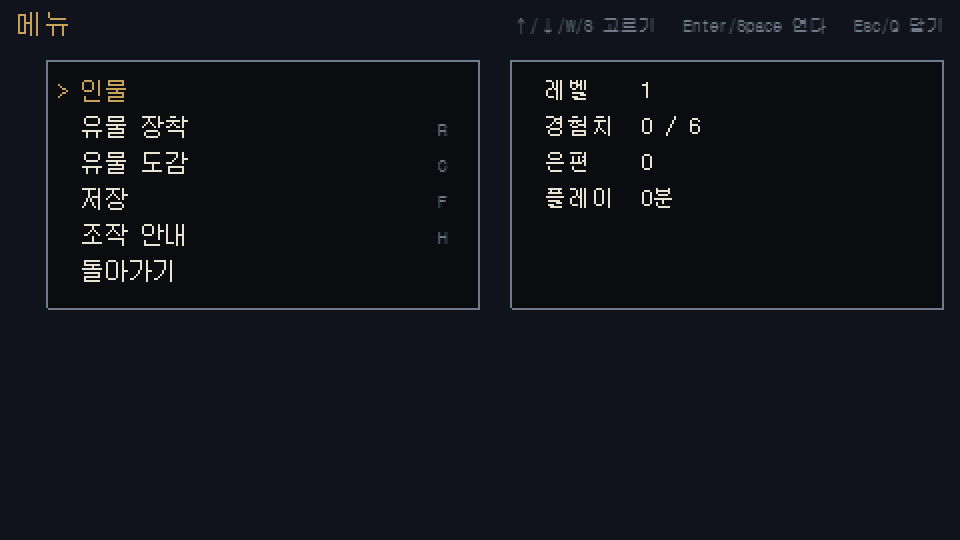
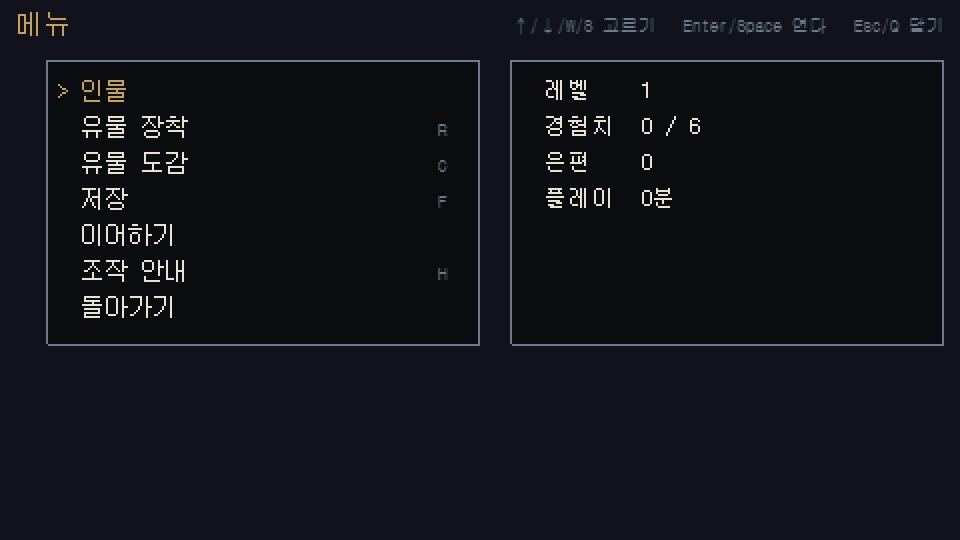
fix(ui): 새 게임이 죽은 자리에서 시작하던 것 + 메뉴에 이어하기 (#64)
원인이 같았다 - 기본값이 있는 인자를 생략하니 호출부가 조용히 틀렸다.

scene.start('overworld') 로 인자를 생략했더니 Phaser 가 그 씬에 마지막으로
넘긴 데이터를 그대로 남겨뒀다. 전멸 후 새로 시작하면 파티는 새것인데 위치만
지난 회차의 것이었다. 안 넘김과 빈 값을 넘김은 다르다.

같은 실수가 메뉴에도 있었다. mode 를 안 넘겨 저장이 기본값 load 로 열렸다 -
저장하러 들어가서 불러오기 화면을 만나는데 두 화면이 비슷해 눈에도 안 띈다.

메뉴에 이어하기를 더한다. 단축키는 주지 않는다 - 탐색 중 실수로 누르면
지금까지의 진행이 날아간다. 세이브 화면의 닫기도 모드가 아니라 돌아갈 곳으로
판단하게 했다.

첫 테스트가 가짜였다. page.goto 로 두 번 열면 Phaser 인스턴스가 새로 생겨
씬 데이터가 남지 않아 고치기 전 코드로도 통과했다. 제대로 된 재현도 결국
못 만들어서(전멸 경로와 ?at= 플래그가 충돌한다) 한계를 주석에 적었다.

diff --git a/tests/smoke/boot.spec.ts b/tests/smoke/boot.spec.ts
@@ -912,6 +912,129 @@ test('성소의 보스와 싸워 유물을 얻는다', async ({ page }) => {
 });
 
 /**
+ * 새로 시작하면 처음부터다 (T-064).
+ *
+ * **씬 데이터가 남아 있었다.** 타이틀에서 새 게임을 시작할 때 위치를 안 넘겼더니
+ * Phaser 가 그 씬에 마지막으로 넘긴 값을 그대로 썼고, 그래서 전멸 → 타이틀 →
+ * 새로 시작 을 하면 **죽은 자리에서 다시 시작했다.** 파티는 새것인데 위치만 지난 회차였다.
+ */
+test('전멸한 뒤 새로 시작하면 시작 지점이다', async ({ page }) => {
+  const errors: string[] = [];
+  page.on('console', (msg) => {
+    if (msg.type() === 'error') errors.push(`[console] ${msg.text()}`);
+  });
+  page.on('pageerror', (error) => {
+    errors.push(`[pageerror] ${error.message}`);
+  });
+
+  /**
+   * ⚠ **이 테스트는 씬 데이터 잔존 자체를 재현하지 못한다.**
+   *
+   * 버그는 **한 세션 안에서** overworld 를 거쳐 타이틀로 돌아왔을 때 난다. 그 경로는
+   * 전멸뿐인데, 전멸을 확실히 만들려면 강한 적 앞에 세워야 하고 거기 세우려면 `?at=` 이
+   * 필요하다 — 그런데 `?at=` 은 새 게임에도 걸리므로 "시작 지점에서 시작했는가" 를
+   * 물을 수 없게 된다. 둘을 동시에 만족하는 배치를 찾지 못했다.
+   *
+   * 그래서 여기서는 **전멸이 타이틀로 이어지는가**까지만 본다. 새 게임의 시작 자리는
+   * 아래 `?at=` 없는 경로가 지킨다 — 씬 데이터가 남은 상태는 아니지만,
+   * 적어도 "새 게임이 시작 맵에서 시작한다" 는 성질은 붙들어 둔다.
+   */
+  await page.goto('/?encounters=off&at=ruin-sanctum:33,8');
+  await expect(page.locator('body')).toHaveAttribute('data-scene', 'title', { timeout: 20_000 });
+  await page.locator('#game canvas').click();
+  await page.keyboard.press('Enter');
+  await expect(page.locator('body')).toHaveAttribute('data-map', 'ruin-sanctum', { timeout: 10_000 });
+
+  await stepKey(page, 'ArrowRight');
+  await stepKey(page, 'Space');
+  await expect(page.locator('body')).toHaveAttribute('data-scene', 'battle', { timeout: 10_000 });
+
+  // 성소의 보스는 파티 Lv1 에게 이길 방법이 없다 (실측 Lv8 에 3%).
+  // 전투가 끝날 때까지만 누른다 — 끝난 뒤에도 누르면 타이틀을 지나쳐 새 게임이 시작된다.
+  for (let i = 0; i < 300; i += 1) {
+    if ((await page.locator('body').getAttribute('data-battle-phase')) === 'over') break;
+    await page.keyboard.press('Enter', { delay: 30 });
+  }
+  await expect(page.locator('body'), '보스에게 이겨버렸다').toHaveAttribute(
+    'data-battle-outcome',
+    'defeat',
+  );
+
+  await page.keyboard.press('Enter');
+  await expect(page.locator('body'), '전멸했는데 타이틀로 나가지 않았다').toHaveAttribute(
+    'data-scene',
+    'title',
+    { timeout: 10_000 },
+  );
+
+  // ── 새 게임은 시작 지점에서 (`?at=` 없이) ──────────────────────────────
+  await page.goto('/?encounters=off');
+  await expect(page.locator('body')).toHaveAttribute('data-scene', 'title', { timeout: 20_000 });
+  await page.locator('#game canvas').click();
+  await page.keyboard.press('Enter');
+  await expect(page.locator('body')).toHaveAttribute('data-scene', 'overworld', { timeout: 10_000 });
+  await expect(page.locator('body')).toHaveAttribute('data-map', 'ruin-entrance');
+  await expect(page.locator('body')).toHaveAttribute('data-player', '8,6');
+
+  expect(errors, `콘솔/페이지 에러가 발생했습니다:\n${errors.join('\n')}`).toEqual([]);
+});
+
+/**
+ * 메뉴의 저장과 이어하기가 서로 다른 화면을 연다 (T-064).
+ *
+ * **모드를 안 넘겨 "저장" 이 불러오기 화면을 열고 있었다.** 두 화면이 비슷하게 생겨서
+ * 눈으로도 안 띄었다 — 슬롯 목록에 커서가 있는 것은 똑같다.
+ */
+test('메뉴의 저장과 이어하기가 각각 제 모드로 열린다', async ({ page }) => {
+  const errors: string[] = [];
+  page.on('console', (msg) => {
+    if (msg.type() === 'error') errors.push(`[console] ${msg.text()}`);
+  });
+  page.on('pageerror', (error) => {
+    errors.push(`[pageerror] ${error.message}`);
+  });
+
+  await page.goto('/?encounters=off');
+  await expect(page.locator('body')).toHaveAttribute('data-scene', 'title', { timeout: 20_000 });
+  await page.locator('#game canvas').click();
+  await page.keyboard.press('Enter');
+  await expect(page.locator('body')).toHaveAttribute('data-scene', 'overworld', { timeout: 10_000 });
+
+  const openMenu = async (item: string): Promise<void> => {
+    await stepKey(page, 'Escape');
+    await expect(page.locator('body')).toHaveAttribute('data-scene', 'menu', { timeout: 10_000 });
+    for (let i = 0; i < 8; i += 1) {
+      if ((await page.locator('body').getAttribute('data-menu-item')) === item) return;
+      await stepKey(page, 's');
+    }
+    throw new Error(`메뉴에서 "${item}" 을 찾지 못했다`);
+  };
+
+  await openMenu('저장');
+  await stepKey(page, 'Enter');
+  await expect(page.locator('body')).toHaveAttribute('data-scene', 'save', { timeout: 10_000 });
+  await expect(page.locator('body'), '저장을 골랐는데 불러오기가 열렸다').toHaveAttribute(
+    'data-save-mode',
+    'save',
+  );
+
+  // 취소하면 걷던 자리로 돌아온다 — 타이틀로 튕기지 않는다.
+  await stepKey(page, 'Escape');
+  await expect(page.locator('body')).toHaveAttribute('data-scene', 'overworld', { timeout: 10_000 });
+
+  await openMenu('이어하기');
+  await stepKey(page, 'Enter');
+  await expect(page.locator('body')).toHaveAttribute('data-scene', 'save', { timeout: 10_000 });
+  await expect(page.locator('body')).toHaveAttribute('data-save-mode', 'load');
+  await page.screenshot({ path: `${SHOT_DIR}/menu-load.png` });
+
+  await stepKey(page, 'Escape');
+  await expect(page.locator('body')).toHaveAttribute('data-scene', 'overworld', { timeout: 10_000 });
+
+  expect(errors, `콘솔/페이지 에러가 발생했습니다:\n${errors.join('\n')}`).toEqual([]);
+});
+
+/**
  * 잡몹 여섯 종이 한 화면에 선다 (T-050).
  *
  * **타일 번호는 눈으로 봐야 안다.** 시트에서 번호만 보고 고르면 "떠도는 불씨" 자리에

diff --git a/src/game/scenes/MenuScene.ts b/src/game/scenes/MenuScene.ts
@@ -5,6 +5,7 @@ import { elapsedMs, formatPlaytime } from '../playtime.js';
 import { markMenu, markScene } from '../domState.js';
 import { bindSceneKeys, type BoundKeys } from '../keys.js';
 import type { OverworldEntry } from './OverworldScene.js';
+import type { SavedLocation } from '../../core/save/index.js';
 import type { SceneKey } from '../domState.js';
 
 /**
@@ -26,13 +27,22 @@ interface MenuItem {
   readonly scene: SceneKey | 'close' | 'help';
   /** 이 화면으로 가는 지름길. 메뉴가 단축키를 가르치는 자리가 된다. */
   readonly shortcut: string | undefined;
+  /**
+   * 세이브 화면의 모드 (T-064).
+   *
+   * **반드시 적는다.** 안 넘기면 `SaveScene` 이 기본값 `load` 를 쓰는데, 그래서
+   * 메뉴의 "저장" 이 불러오기 화면을 열고 있었다 — 화면이 비슷하게 생겨서 눈에도 안 띈다.
+   */
+  readonly mode?: 'save' | 'load';
 }
 
 const ITEMS: readonly MenuItem[] = [
   { label: '인물', scene: 'status', shortcut: undefined },
   { label: '유물 장착', scene: 'relic', shortcut: OVERWORLD_KEYS.relic.keys[0] },
   { label: '유물 도감', scene: 'codex', shortcut: OVERWORLD_KEYS.codex.keys[0] },
-  { label: '저장', scene: 'save', shortcut: OVERWORLD_KEYS.save.keys[0] },
+  { label: '저장', scene: 'save', shortcut: OVERWORLD_KEYS.save.keys[0], mode: 'save' },
+  // 불러오기는 단축키가 없다 — 탐색 중에 실수로 누르면 지금까지의 진행이 날아간다.
+  { label: '이어하기', scene: 'save', shortcut: undefined, mode: 'load' },
   { label: '조작 안내', scene: 'help', shortcut: OVERWORLD_KEYS.help.keys[0] },
   { label: '돌아가기', scene: 'close', shortcut: undefined },
 ];
@@ -170,7 +180,25 @@ export class MenuScene extends Phaser.Scene {
     }
 
     // 어느 화면이든 돌아올 곳을 그대로 넘긴다. 메뉴를 거쳤다고 제자리를 잃으면 안 된다.
-    this.scene.start(item.scene, { returnTo: this.returnTo });
+    // 저장 화면은 모드까지 넘긴다 — 생략하면 저장하러 들어가서 불러오기 화면을 만난다.
+    this.scene.start(item.scene, {
+      returnTo: this.returnTo,
+      ...(item.mode === undefined ? {} : { mode: item.mode, location: this.location() }),
+    });
+  }
+
+  /**
+   * 저장할 자리.
+   *
+   * **돌아갈 곳이 곧 지금 서 있는 곳이다.** 위치를 따로 들고 다니면 둘이 어긋날 수 있는데,
+   * 메뉴는 걸음을 멈춘 자리에서만 열리므로 하나로 충분하다.
+   */
+  private location(): SavedLocation | undefined {
+    const mapId = this.returnTo?.mapId;
+    const arrival = this.returnTo?.arrival;
+    if (mapId === undefined || arrival === undefined) return undefined;
+
+    return { mapId, x: arrival.position.x, y: arrival.position.y, facing: arrival.facing };
   }
 
   private close(): void {

diff --git a/src/game/scenes/TitleScene.ts b/src/game/scenes/TitleScene.ts
@@ -5,6 +5,7 @@ import { joinFullPartyIfRequested } from '../devFlags.js';
 import { resetClock, startClock } from '../playtime.js';
 import { browserStorage, readAllSlots } from '../save/storage.js';
 import type { SaveEntry } from './SaveScene.js';
+import type { OverworldEntry } from './OverworldScene.js';
 
 export class TitleScene extends Phaser.Scene {
   constructor() {
@@ -71,7 +72,14 @@ export class TitleScene extends Phaser.Scene {
       joinFullPartyIfRequested(joinMember);
       resetClock();
       startClock(Date.now());
-      this.scene.start('overworld');
+      /**
+       * **빈 값을 명시해서 넘긴다.**
+       *
+       * 인자를 생략하면 Phaser 가 그 씬에 마지막으로 넘긴 데이터를 그대로 남겨둔다.
+       * 그래서 전멸 → 타이틀 → 새로 시작 을 하면 **죽은 자리에서 다시 시작했다** —
+       * 파티는 새것인데 위치만 지난 회차의 것이었다.
+       */
+      this.scene.start('overworld', {} satisfies OverworldEntry);
     });
   }
 }

diff --git a/src/game/scenes/SaveScene.ts b/src/game/scenes/SaveScene.ts
@@ -214,12 +214,19 @@ export class SaveScene extends Phaser.Scene {
     this.refresh();
   }
 
+  /**
+   * 닫으면 어디로 가는가.
+   *
+   * **모드가 아니라 돌아갈 곳이 정한다.** 예전에는 `load` 면 무조건 타이틀로 갔는데,
+   * 메뉴에서 이어하기를 열고 취소하면 걷던 자리를 잃고 타이틀로 튕겼다 (T-064).
+   * 타이틀에서 들어온 경우에만 돌아갈 곳이 없고, 그때가 타이틀로 갈 때다.
+   */
   private close(): void {
-    if (this.mode === 'save') {
-      this.scene.start('overworld', this.returnTo ?? {});
-    } else {
+    if (this.returnTo === undefined) {
       this.scene.start('title');
+      return;
     }
+    this.scene.start('overworld', this.returnTo);
   }
 
   private notice(text: string): void {

diff --git a/docs/PROGRESS.md b/docs/PROGRESS.md
@@ -14,6 +14,17 @@
 
 ---
 
+### 2026-08-06 · T-064 · 넘기지 않은 값이 지난 회차를 데려왔다
+- 한 일: 새 게임 위치 초기화, 메뉴의 저장/이어하기 분리, 세이브 화면 닫기 경로 수정. 스모크 17 → 19개
+- 알게 된 것:
+  - **인자를 생략하면 Phaser 는 그 씬에 마지막으로 넘긴 데이터를 남겨둔다.** `scene.start('overworld')` 로 새 게임을 시작했더니 죽은 자리에서 다시 시작했다 — 파티는 새것인데 위치만 지난 회차의 것이었다. **"안 넘김" 과 "빈 값을 넘김" 이 다르다**는 것을 여기서 처음 겪었다.
+  - **같은 실수가 메뉴에도 있었다.** `mode` 를 안 넘겨 "저장" 이 기본값 `load` 로 열렸다 — 저장하러 들어가서 불러오기 화면을 만나는데, 두 화면이 비슷하게 생겨 눈으로도 안 띈다. 하루 사이에 같은 모양의 버그가 두 곳에서 나왔다: **기본값이 있는 인자를 생략하면 호출부가 조용히 틀린다.**
+  - **재현을 시도한 덕에 첫 테스트가 가짜였다는 것을 알았다.** `page.goto` 로 두 번 열어 확인하려 했는데 Phaser 인스턴스가 새로 생겨 씬 데이터가 남지 않았다 — 고치기 전 코드로도 통과했다. 고친 코드를 되돌려 보지 않았으면 초록을 믿었을 것이다.
+  - **그리고 제대로 된 재현도 결국 못 만들었다.** 전멸이 유일한 경로인데 확실히 지려면 `?at=` 으로 강한 적 앞에 서야 하고, 그 플래그는 새 게임에도 걸려 "시작 지점인가" 를 물을 수 없게 한다. 둘을 동시에 만족하는 배치가 없어서 전멸 → 타이틀 까지만 확인하고 **한계를 주석에 적었다.** 못 잡는 것을 잡는 척하지 않는 편이 낫다.
+- 다음에 걸릴 것 같은 것:
+  - T-042(전멸 시 마지막 저장 지점 복귀)를 하면 이 경로 자체가 바뀐다. 그때 이 테스트도 다시 봐야 한다
+  - 씬에 값을 넘기는 자리가 늘고 있다 (returnTo, mode, location, openHelp, dropRelicId). 생략 가능한 인자가 늘수록 같은 실수가 반복된다
+
 ### 2026-08-06 · T-054 · 거점 사람들. M5 가 끝났다
 - 한 일: 거점 NPC 5명 + 대화, `core/world/reach.ts`(길막힘 검사). 테스트 753 → 765개
 - 알게 된 것:

diff --git a/docs/BACKLOG.md b/docs/BACKLOG.md
@@ -136,6 +136,12 @@
   - **읽기는 절대 던지지 않는다.** 슬롯 상태를 값으로 돌려주고 화면이 그대로 보여준다 — 깨진 슬롯을 빈 슬롯처럼 감추면 플레이어는 세이브가 사라졌다고 생각한다
   - 저장소가 던지는 경우를 전부 다룬다: 비활성·깨진 JSON·미래 버전·용량 초과·없는 콘텐츠 참조
   - 스모크가 **페이지 새로고침을 건너** 확인한다. 같은 세션 안에서만 되돌아오는 것은 localStorage 를 거쳤다는 증거가 아니다
+- [x] **T-064** 새 게임이 죽은 자리에서 시작하던 것 + 메뉴에 이어하기 (플레이 피드백)
+  - **씬 데이터가 남아 있었다.** 타이틀에서 새 게임을 시작할 때 위치를 안 넘겼더니 Phaser 가 그 씬에 마지막으로 넘긴 값을 그대로 썼다 — 파티는 새것인데 위치만 지난 회차의 것이었다
+  - **메뉴의 "저장" 이 불러오기 화면을 열고 있었다.** `mode` 를 안 넘겨 `SaveScene` 의 기본값(`load`)이 쓰였는데, 두 화면이 비슷하게 생겨 눈에도 안 띈다
+  - 메뉴에 **이어하기**를 더했다. 단축키는 주지 않는다 — 탐색 중에 실수로 누르면 지금까지의 진행이 날아간다
+  - 세이브 화면의 닫기가 **모드가 아니라 돌아갈 곳으로** 판단하게 했다. 메뉴에서 이어하기를 열고 취소하면 걷던 자리를 잃고 타이틀로 튕겼다
+  - ⚠ **씬 데이터 잔존은 스모크로 재현하지 못했다.** 전멸이 유일한 경로인데 확실히 지려면 `?at=` 이 필요하고, 그 플래그는 새 게임에도 걸려 "시작 지점에서 시작했는가" 를 물을 수 없게 만든다. 전멸 → 타이틀 까지만 확인하고 한계를 주석에 적었다
 - [ ] **T-042** 전멸 시 마지막 저장 지점에서 다시
   - 지금은 타이틀로 간다. 세이브가 생겼으니 선택지가 붙어야 자연스럽다 (`BattleScene.leaveBattle`)
 - [ ] **T-043** 플레이 시간 정산 확인
